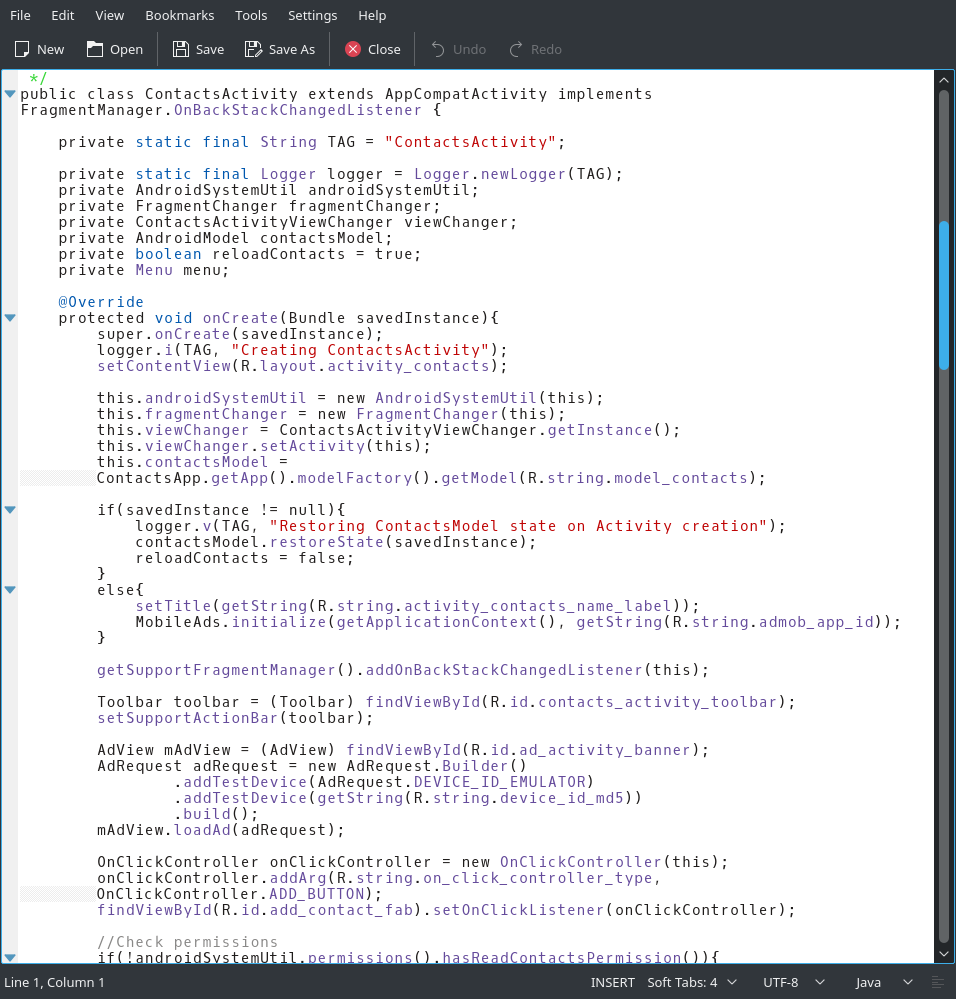
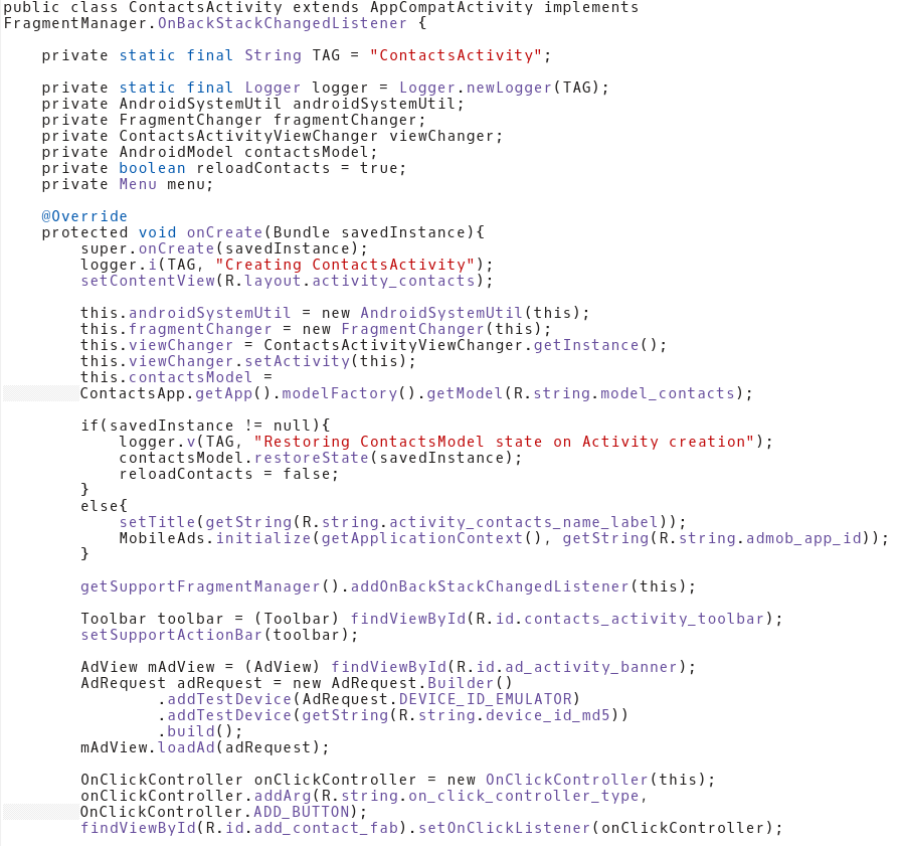
Cropped all code images, added javascript image, and stubbed out the skills content pages

diff --git a/js/craigmiller160.js b/js/craigmiller160.js
@@ -4,6 +4,7 @@ var cm160 = (function(){
 
 	var contentChanger = (function(){
 		var displayedContent = [];
+		var initContainers = [];
 
 		function handleChangeEvent (event){
 			if(event.type === "click"){
@@ -31,8 +32,11 @@ var cm160 = (function(){
 
 		function init(){
 			$(".cm160-content-container").each(function(){
-				var page = $(this).attr("defaultPage");
-				change(page, $(this).attr("id"));
+				if(initContainers[$(this).attr("id")] === undefined){
+					var page = $(this).attr("defaultPage");
+					change(page, $(this).attr("id"));
+					initContainers[$(this).attr("id")] = $(this);
+				}
 			});
 			$(".cm160-change-content").click(handleChangeEvent);
 		}
@@ -50,7 +54,7 @@ var cm160 = (function(){
 
 		function addImage(src, alt, index, name){
 			var img = $("<img/>");
-			img.addClass("cm160-slideshow"); //TODO make this class more unique
+			img.addClass("cm160-slideshow");
 
 			img.attr("src", src);
 			img.attr("alt", alt);

diff --git a/content/skills.html b/content/skills.html
@@ -3,7 +3,7 @@
 <head>
 </head>
 <body>
-	<div id="content-skills">
+	<div id="content-skills-page">
 		<div class="page-header title-block">
 	        <h1 class="page-title">Skills</h1>
 	    </div>
@@ -38,10 +38,15 @@
 		    		</ul>
 		    	</div>
 	    	</nav>
-	    	<div id="content-skills" defaultPage="java" class="col-md-9">
+	    	<div id="content-skills" defaultPage="java" class="col-md-9 cm160-content-container">
 		    	<!-- Individual skill content goes here -->
 	    	</div>
 	    </div>
 	</div>
 </body>
+<script>
+	$(document).ready(function(){
+		cm160.contentChanger.init();
+	});
+</script>
 </html>

diff --git a/content/bio.html b/content/bio.html
@@ -4,7 +4,7 @@
 </head>
 <body>
 <div id="content-bio">
-    <div class="page-header">
+    <div class="page-header title-block">
         <h1 class="page-title">Biography</h1>
     </div>
     <div class="row">

diff --git a/content/android.html b/content/android.html
@@ -1,0 +1,12 @@
+<!DOCTYPE html>
+<html>
+<head>
+</head>
+<body>
+	<div id="content-java">
+		<div class="row">
+			<h1>Android</h1>
+		</div>
+	</div>
+</body>
+</html>

diff --git a/content/other.html b/content/other.html
@@ -1,0 +1,12 @@
+<!DOCTYPE html>
+<html>
+<head>
+</head>
+<body>
+	<div id="content-java">
+		<div class="row">
+			<h1>Other</h1>
+		</div>
+	</div>
+</body>
+</html>

diff --git a/content/tools.html b/content/tools.html
@@ -1,0 +1,12 @@
+<!DOCTYPE html>
+<html>
+<head>
+</head>
+<body>
+	<div id="content-java">
+		<div class="row">
+			<h1>Tools</h1>
+		</div>
+	</div>
+</body>
+</html>

diff --git a/content/java.html b/content/java.html
@@ -1,0 +1,12 @@
+<!DOCTYPE html>
+<html>
+<head>
+</head>
+<body>
+	<div id="content-java">
+		<div class="row">
+			<h1>Java</h1>
+		</div>
+	</div>
+</body>
+</html>

diff --git a/content/sql.html b/content/sql.html
@@ -1,0 +1,12 @@
+<!DOCTYPE html>
+<html>
+<head>
+</head>
+<body>
+	<div id="content-java">
+		<div class="row">
+			<h1>SQL</h1>
+		</div>
+	</div>
+</body>
+</html>

diff --git a/content/web.html b/content/web.html
@@ -1,0 +1,12 @@
+<!DOCTYPE html>
+<html>
+<head>
+</head>
+<body>
+	<div id="content-java">
+		<div class="row">
+			<h1>Web</h1>
+		</div>
+	</div>
+</body>
+</html>
